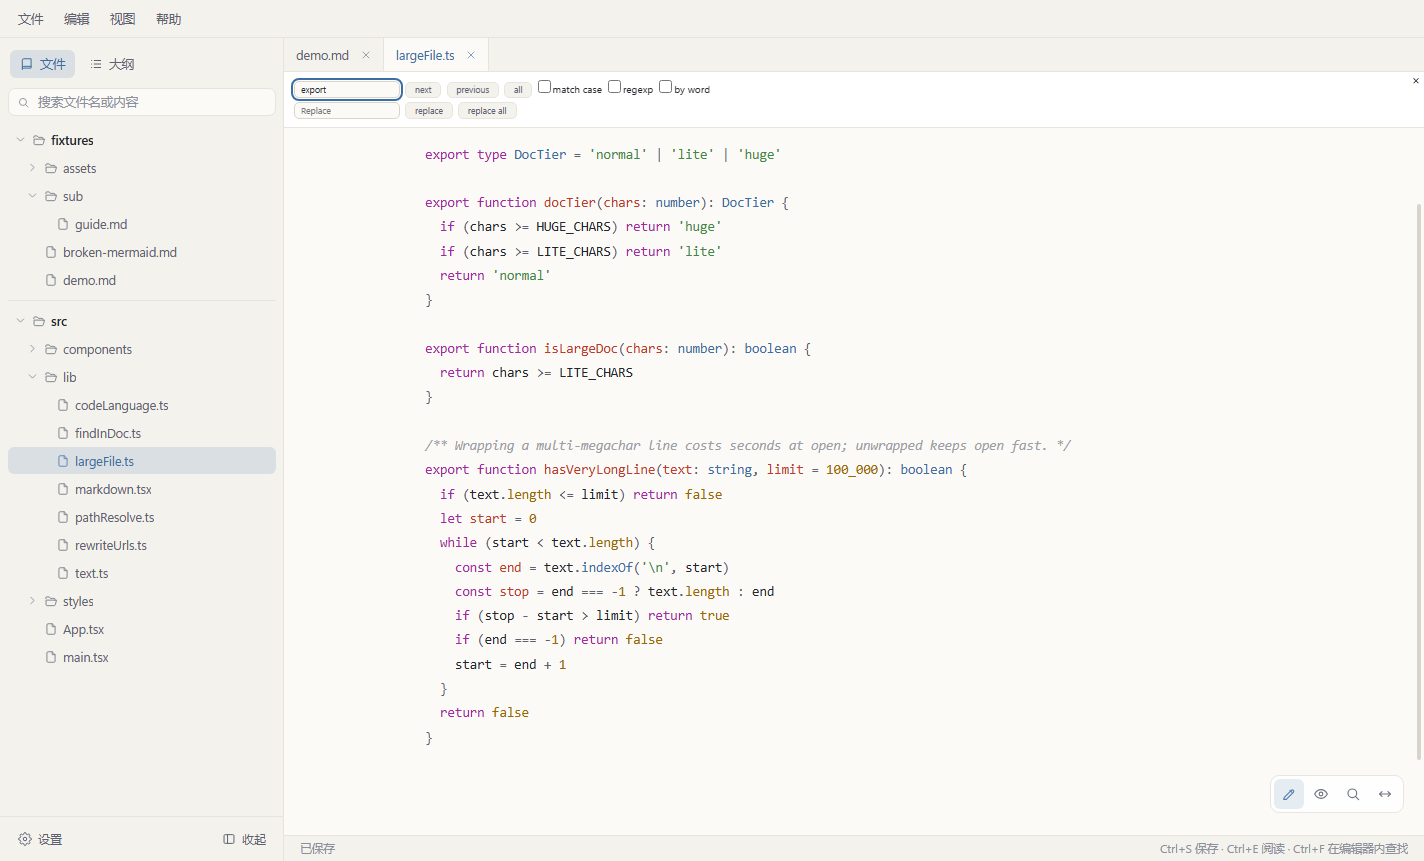
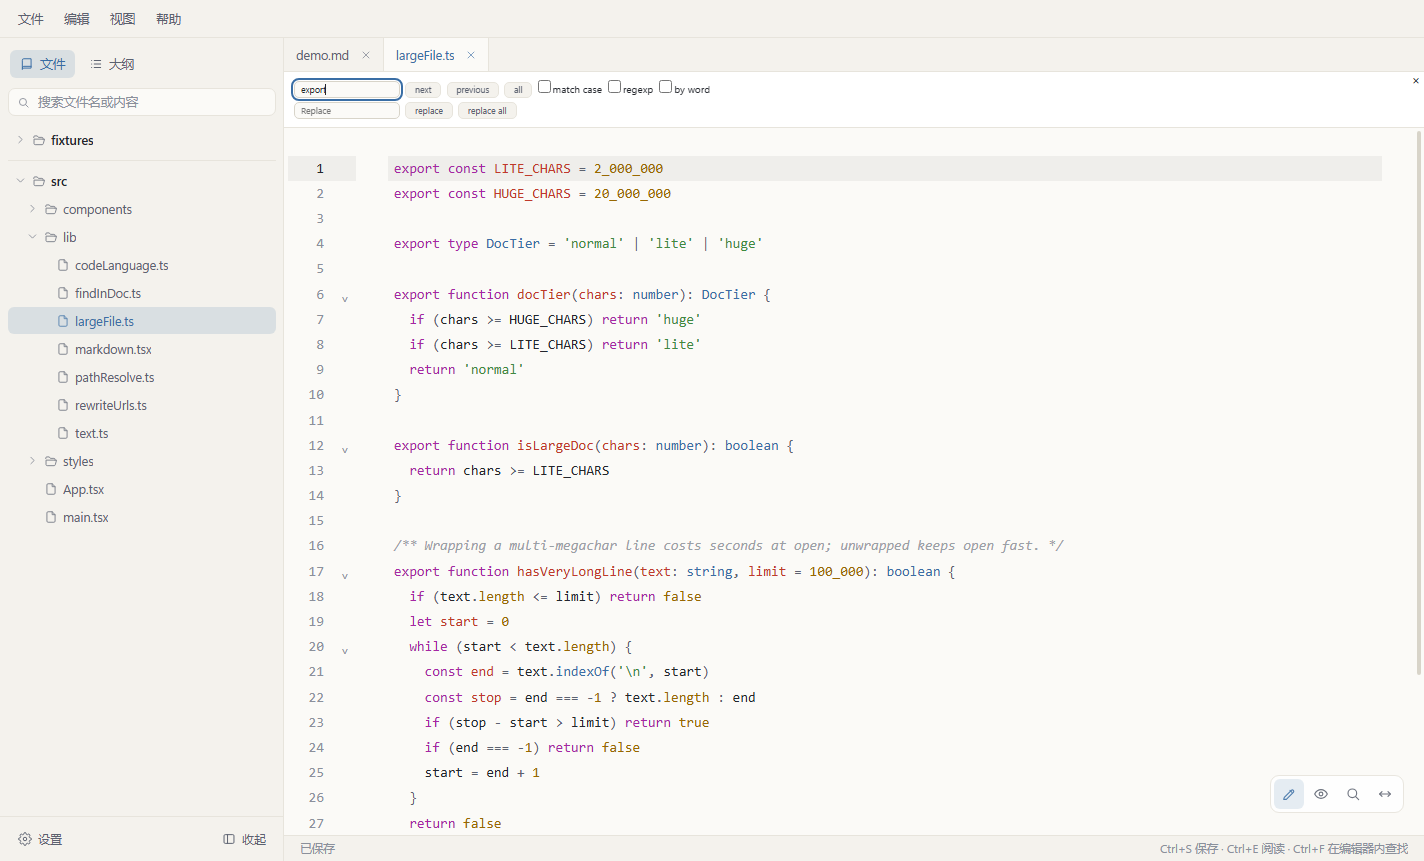
feat: 编辑器新增行号、当前行提示与代码折叠
编辑区改为整宽布局，并新增“显示行号”设置项；大文件精简模式下自动关闭折叠，避免额外分析开销。

diff --git a/src/renderer/src/components/Editor.tsx b/src/renderer/src/components/Editor.tsx
@@ -4,7 +4,9 @@ import {
   EditorView,
   drawSelection,
   highlightActiveLine,
+  highlightActiveLineGutter,
   keymap,
+  lineNumbers,
   placeholder
 } from '@codemirror/view'
 import { defaultKeymap, history, historyKeymap, indentWithTab, redo, undo } from '@codemirror/commands'
@@ -14,7 +16,13 @@ import {
   search,
   searchKeymap
 } from '@codemirror/search'
-import { HighlightStyle, bracketMatching, syntaxHighlighting } from '@codemirror/language'
+import {
+  HighlightStyle,
+  bracketMatching,
+  foldGutter,
+  foldKeymap,
+  syntaxHighlighting
+} from '@codemirror/language'
 import { markdown } from '@codemirror/lang-markdown'
 import { tags } from '@lezer/highlight'
 import type { ThemeMode } from '../../../shared/types'
@@ -31,6 +39,7 @@ interface Props {
   value: string
   theme: ThemeMode
   wordWrap: boolean
+  showLineNumbers: boolean
   language: string
   readOnly: boolean
   lite: boolean
@@ -54,10 +63,29 @@ function editorTheme(theme: ThemeMode): Extension {
           overflow: 'auto'
         },
         '.cm-content': {
-          padding: '34px 44px 150px',
-          maxWidth: 'min(calc(var(--content-w) + 88px), 100%)',
-          margin: '0 auto',
+          padding: '28px 32px 150px',
           caretColor: 'var(--accent)'
+        },
+        '.cm-gutters': {
+          backgroundColor: 'transparent',
+          color: 'var(--text-3)',
+          border: 'none',
+          paddingLeft: '4px'
+        },
+        '.cm-lineNumbers .cm-gutterElement': {
+          padding: '0 10px 0 14px',
+          minWidth: '46px',
+          textAlign: 'right'
+        },
+        '.cm-foldGutter .cm-gutterElement': {
+          padding: '0 6px',
+          cursor: 'pointer'
+        },
+        '.cm-foldGutter span': { color: 'var(--text-3)', padding: '0 1px' },
+        '.cm-foldGutter .cm-gutterElement:hover span': { color: 'var(--text)' },
+        '.cm-activeLineGutter': {
+          backgroundColor: 'var(--hover)',
+          color: 'var(--text)'
         },
         '.cm-cursor, .cm-dropCursor': { borderLeftColor: 'var(--accent)' },
         '.cm-selectionBackground, .cm-content ::selection': {
@@ -179,6 +207,7 @@ export function Editor({
   value,
   theme,
   wordWrap,
+  showLineNumbers,
   language,
   readOnly,
   lite,
@@ -194,6 +223,8 @@ export function Editor({
   const langCompartment = useRef(new Compartment())
   const readCompartment = useRef(new Compartment())
   const featureCompartment = useRef(new Compartment())
+  const lineNumberCompartment = useRef(new Compartment())
+  const foldCompartment = useRef(new Compartment())
   const initialLang = useRef<Extension | null>(null)
   if (initialLang.current === null) {
     initialLang.current = lite ? [] : language === 'markdown' ? markdown() : []
@@ -209,6 +240,11 @@ export function Editor({
 
   const featureExtensions = (): Extension =>
     lite ? [] : [highlightActiveLine(), highlightSelectionMatches(), bracketMatching()]
+
+  const lineNumberExtensions = (): Extension =>
+    showLineNumbers ? [lineNumbers(), highlightActiveLineGutter()] : []
+
+  const foldExtensions = (): Extension => (lite ? [] : foldGutter())
 
   useEffect(() => {
     changeRef.current = onChange
@@ -229,11 +265,19 @@ export function Editor({
           history(),
           wrapCompartment.current.of(wordWrap ? EditorView.lineWrapping : []),
           drawSelection(),
+          lineNumberCompartment.current.of(lineNumberExtensions()),
+          foldCompartment.current.of(foldExtensions()),
           featureCompartment.current.of(featureExtensions()),
           search({ top: true }),
           langCompartment.current.of(initialLang.current ?? []),
           readCompartment.current.of(readOnlyExtensions()),
-          keymap.of([...defaultKeymap, ...historyKeymap, ...searchKeymap, indentWithTab]),
+          keymap.of([
+            ...defaultKeymap,
+            ...historyKeymap,
+            ...searchKeymap,
+            ...foldKeymap,
+            indentWithTab
+          ]),
           themeCompartment.current.of(editorTheme(theme)),
           EditorView.theme({ '&': { fontSize: 'var(--editor-size, 13.5px)' } }),
           EditorView.updateListener.of((update) => {
@@ -315,6 +359,20 @@ export function Editor({
   useEffect(() => {
     viewRef.current?.dispatch({
       effects: featureCompartment.current.reconfigure(featureExtensions())
+    })
+    // eslint-disable-next-line react-hooks/exhaustive-deps
+  }, [lite])
+
+  useEffect(() => {
+    viewRef.current?.dispatch({
+      effects: lineNumberCompartment.current.reconfigure(lineNumberExtensions())
+    })
+    // eslint-disable-next-line react-hooks/exhaustive-deps
+  }, [showLineNumbers])
+
+  useEffect(() => {
+    viewRef.current?.dispatch({
+      effects: foldCompartment.current.reconfigure(foldExtensions())
     })
     // eslint-disable-next-line react-hooks/exhaustive-deps
   }, [lite])

diff --git a/src/main/settings.ts b/src/main/settings.ts
@@ -135,6 +135,7 @@ function defaults(): Settings {
     contentLineHeight: DEFAULT_LEADING,
     editorFontSize: DEFAULT_EDITOR_FONT,
     editorWordWrap: true,
+    editorLineNumbers: true,
     restoreSession: true,
     hideNoisyEntries: true,
     rememberWindowBounds: true,
@@ -167,6 +168,7 @@ export function getSettings(): Settings {
       contentLineHeight: normalizeLeading(parsed.contentLineHeight),
       editorFontSize: normalizeEditorFont(parsed.editorFontSize),
       editorWordWrap: normalizeBool(parsed.editorWordWrap, true),
+      editorLineNumbers: normalizeBool(parsed.editorLineNumbers, true),
       restoreSession: normalizeBool(parsed.restoreSession, true),
       hideNoisyEntries: normalizeBool(parsed.hideNoisyEntries, true),
       rememberWindowBounds: normalizeBool(parsed.rememberWindowBounds, true),
@@ -199,6 +201,8 @@ export function patchSettings(patch: Partial<Settings>): Settings {
     next.editorFontSize = normalizeEditorFont(patch.editorFontSize)
   if (patch.editorWordWrap !== undefined)
     next.editorWordWrap = normalizeBool(patch.editorWordWrap, true)
+  if (patch.editorLineNumbers !== undefined)
+    next.editorLineNumbers = normalizeBool(patch.editorLineNumbers, true)
   if (patch.restoreSession !== undefined)
     next.restoreSession = normalizeBool(patch.restoreSession, true)
   if (patch.hideNoisyEntries !== undefined)
@@ -238,6 +242,7 @@ export function resetPreferences(): Settings {
     contentLineHeight: base.contentLineHeight,
     editorFontSize: base.editorFontSize,
     editorWordWrap: base.editorWordWrap,
+    editorLineNumbers: base.editorLineNumbers,
     restoreSession: base.restoreSession,
     hideNoisyEntries: base.hideNoisyEntries,
     rememberWindowBounds: base.rememberWindowBounds

diff --git a/src/renderer/src/components/SettingsDialog.tsx b/src/renderer/src/components/SettingsDialog.tsx
@@ -300,6 +300,18 @@ export function SettingsDialog({
             <span className="setting-row-value">{editorFont.toFixed(1)} px</span>
           </div>
           <div className="setting-row">
+            <span className="setting-row-label">显示行号</span>
+            <button
+              type="button"
+              role="switch"
+              aria-checked={settings.editorLineNumbers}
+              aria-label="编辑器与代码阅读显示行号"
+              className={`switch${settings.editorLineNumbers ? ' on' : ''}`}
+              onClick={() => void onPatch({ editorLineNumbers: !settings.editorLineNumbers })}
+            />
+          </div>
+          <div className="hint">行号与当前行提示显示在编辑器、代码阅读和 Markdown 源码视图中。</div>
+          <div className="setting-row">
             <span className="setting-row-label">自动换行</span>
             <button
               type="button"

diff --git a/src/renderer/src/App.tsx b/src/renderer/src/App.tsx
@@ -42,6 +42,7 @@ const INITIAL_SETTINGS: Settings = {
   contentLineHeight: 1.78,
   editorFontSize: 13.5,
   editorWordWrap: true,
+  editorLineNumbers: true,
   restoreSession: true,
   hideNoisyEntries: true,
   rememberWindowBounds: true,
@@ -1422,6 +1423,7 @@ export default function App(): JSX.Element {
                   value={active.draft ?? active.content}
                   theme={theme}
                   wordWrap={settings.editorWordWrap && !activeLongLine}
+                  showLineNumbers={settings.editorLineNumbers}
                   language={activeIsMd ? 'markdown' : languageKeyForPath(active.path)}
                   readOnly={!active.editing}
                   lite={activeLite}

diff --git a/src/shared/types.ts b/src/shared/types.ts
@@ -40,6 +40,7 @@ export interface Settings {
   contentLineHeight: number
   editorFontSize: number
   editorWordWrap: boolean
+  editorLineNumbers: boolean
   restoreSession: boolean
   hideNoisyEntries: boolean
   rememberWindowBounds: boolean
